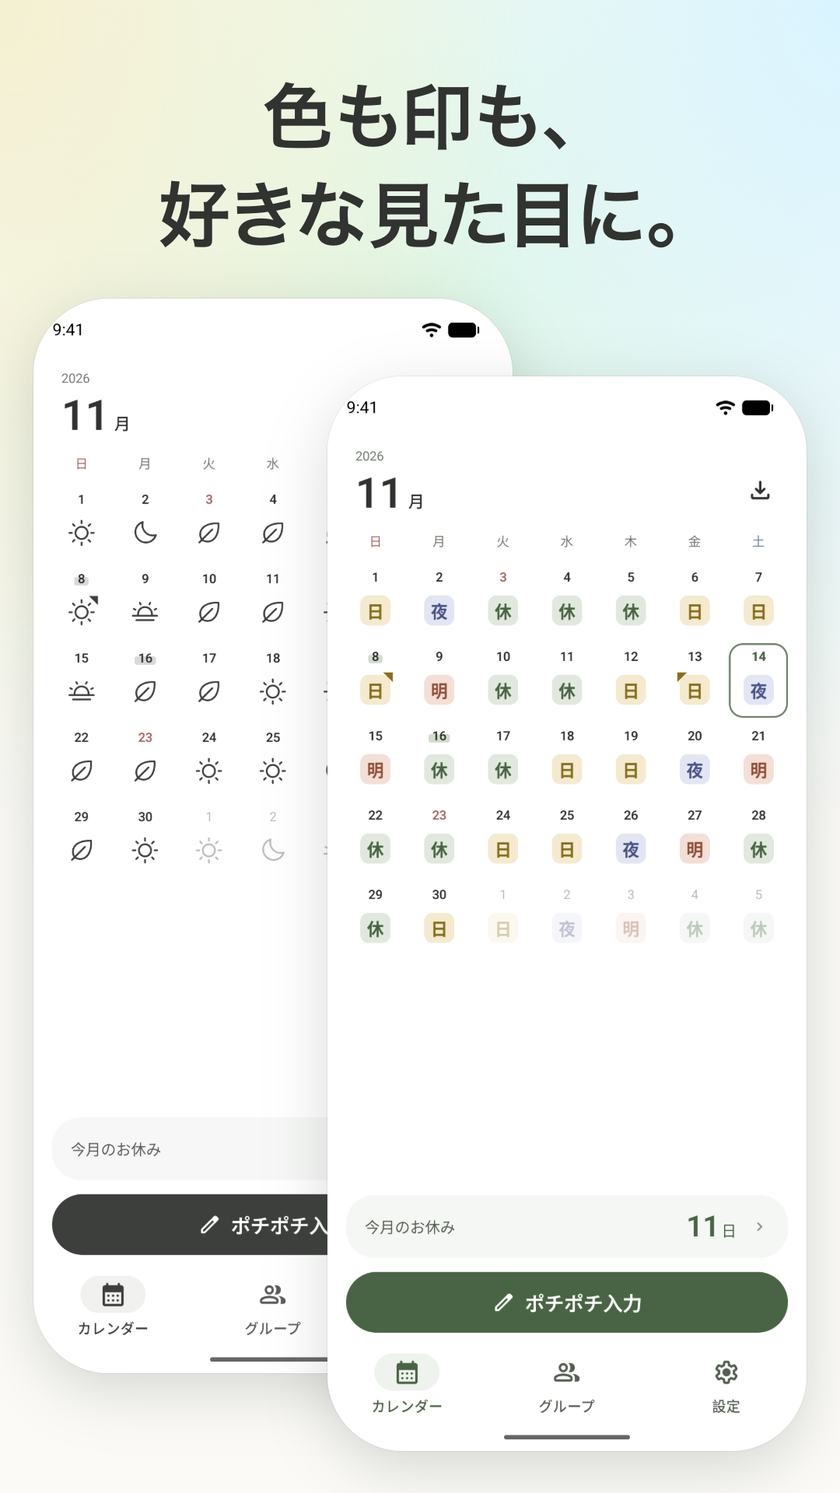
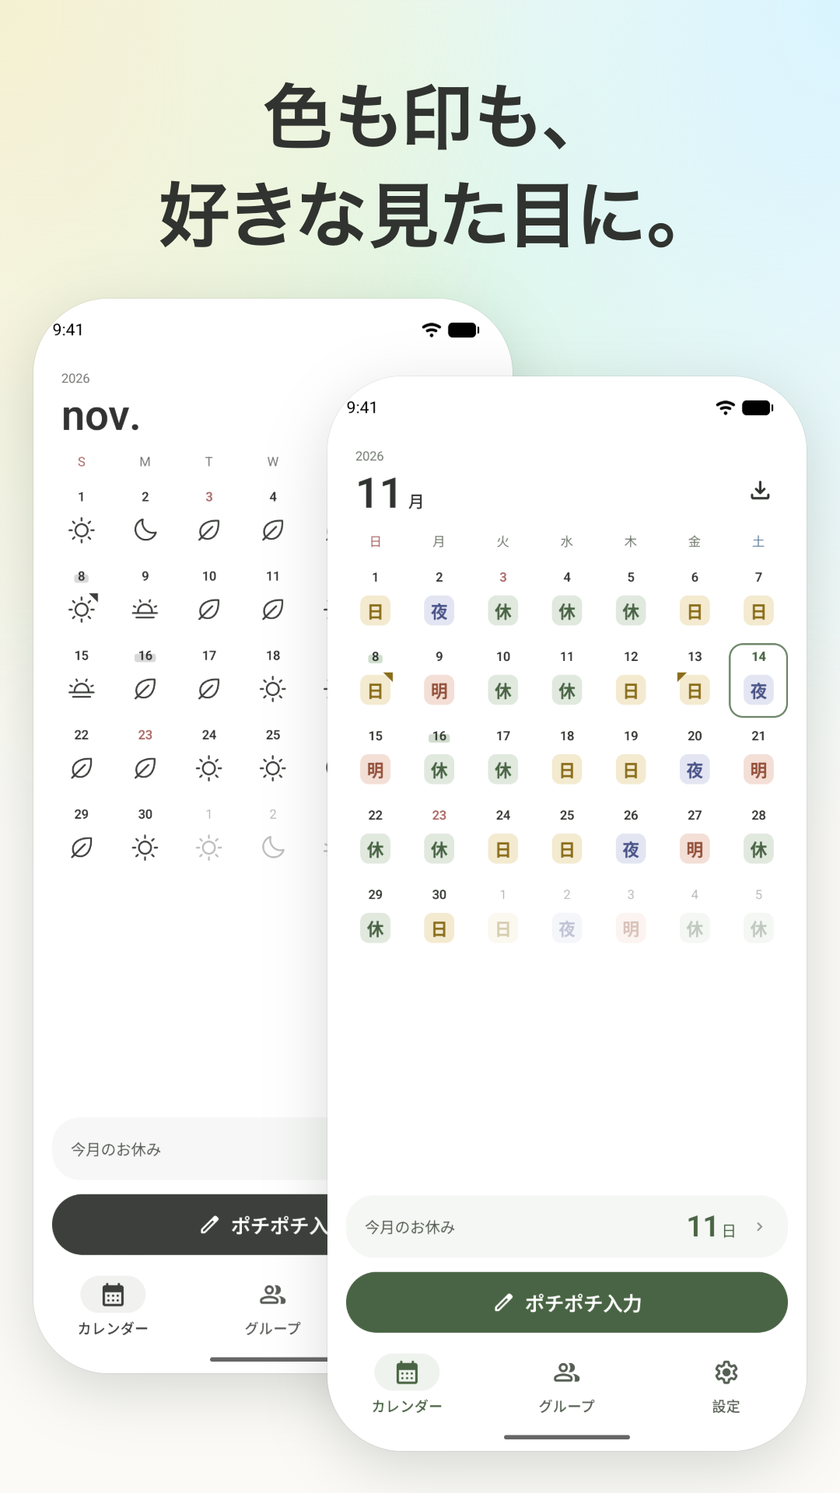
Store pictures: the 墨 calendar names its month and weekdays in English (#806)
The capture sets カレンダー's 月と曜日 with each look: English for the month's
own picture in 墨, 日本語 for the rest, the 墨 widgets among them. Only the
pictures that calendar is in are redrawn.

diff --git a/apps/android/app/src/androidTest/kotlin/app/pochical/StoreScreenshots.kt b/apps/android/app/src/androidTest/kotlin/app/pochical/StoreScreenshots.kt
@@ -68,7 +68,8 @@ import org.junit.runner.RunWith
  * in the order the app is walked rather than the stores': the sample month as a new user's,
  * リマインド's reminder of the evening before, who joins the groups tools/store-screenshots/seed.ts
  * made, the friends' as まい and the coworkers' as 佐藤; a page of a シフトの期間 from the 15th; the
- * month in 墨, in black and white ([Style.Sumi]), and with its shifts as letters ([Style.Letters]);
+ * month in 墨, in black and white ([Style.Sumi]) with 月と曜日 in English, and with its shifts as
+ * letters ([Style.Letters]);
  * ポチポチ入力 halfway through the month, the days it takes out entered again after; then, every
  * picture of the month taken, what changes its days: the widgets, each kind by itself at each
  * size it offers, in the app's look and in 墨, on each of today's shifts the wall shows, those that
@@ -186,7 +187,7 @@ class StoreScreenshots {
     pickPeriod("1日〜末日")
 
     // Every picture of the month before the widgets change its days.
-    pick(Style.Sumi)
+    pick(Style.Sumi, english = true)
     launch()
     device.find(calendar)
     photograph("05-calendar-sumi")
@@ -323,8 +324,11 @@ class StoreScreenshots {
     device.tap(By.text("参加する"), By.text("全体チャット"))
   }
 
-  /** Picks [style] in 設定, as the person would: スタイル's choices, and カレンダー's 色をつける日. */
-  private fun pick(style: Style) {
+  /**
+   * Picks [style] in 設定, as the person would: スタイル's choices, and カレンダー's 月と曜日, in [english]
+   * or not, and 色をつける日.
+   */
+  private fun pick(style: Style, english: Boolean = false) {
     device.tap(By.text("設定"), By.text("スタイル"))
     device.tap(By.text("スタイル"), By.text("テーマ"))
     for (choice in listOf(style.shape, style.theme, style.colors, style.off)) {
@@ -335,6 +339,8 @@ class StoreScreenshots {
     device.back(By.text("テーマ"))
     // カレンダー's row, by what it says of the week: the tab is カレンダー too.
     device.tap(By.textContains("曜はじまり"), By.text("週の始まり"))
+    val names = if (english) "英語" else "日本語"
+    if (!device.hasObject(By.desc(names).checked(true))) device.tap(By.desc(names), By.desc(names).checked(true))
     for (day in listOf("土曜", "日曜", "祝日")) {
       reveal(By.text(day))
       if (!device.hasObject(switch(day, style.coloredDays))) device.tap(switch(day, !style.coloredDays), switch(day, style.coloredDays))

diff --git a/apps/ios/Pochical/PochicalUITests/StoreScreenshotTests.swift b/apps/ios/Pochical/PochicalUITests/StoreScreenshotTests.swift
@@ -5,7 +5,8 @@ import XCTest
 /// month's リマインド, its reminder of the evening before; the sample month
 /// and 端末カレンダーに追加; 学生時代の友だち's 一覧, joined as まい, and
 /// 職場のみんな's 全体チャット, joined as 佐藤; a page of a シフトの期間 from
-/// the 15th; the month in 墨, in black and white (`Style.sumi`), and with
+/// the 15th; the month in 墨, in black and white (`Style.sumi`) with
+/// 月と曜日 in English, and with
 /// its shifts as letters (`Style.letters`); ポチポチ入力 halfway through the
 /// month, the days it takes out entered again after; then, every picture
 /// of the month taken, what changes its days: the widgets, each put on the
@@ -150,7 +151,7 @@ final class StoreScreenshotTests: XCTestCase {
   @MainActor
   func test05Sumi() throws {
     launch()
-    pick(.sumi)
+    pick(.sumi, english: true)
     snap("05-calendar-sumi", of: XCUIScreen.main, into: raw)
   }
 
@@ -589,8 +590,9 @@ final class StoreScreenshotTests: XCTestCase {
   }
 
   /// Picks `style` in 設定, as the person would: スタイル's choices and
-  /// カレンダー's 色をつける日, and comes back to the calendar in them.
-  @MainActor private func pick(_ style: Style) {
+  /// カレンダー's 月と曜日, in `english` or not, and 色をつける日, and comes
+  /// back to the calendar in them.
+  @MainActor private func pick(_ style: Style, english: Bool = false) {
     app.tabBars.buttons["設定"].tap()
     open(page: "スタイル")
     for choice in [style.shape, style.theme, style.colors, style.off] {
@@ -609,6 +611,11 @@ final class StoreScreenshotTests: XCTestCase {
     }
     app.navigationBars["スタイル"].buttons.firstMatch.tap()
     open(page: "カレンダー")
+    // 月と曜日, the page's first choice of two: 日本語, then 英語.
+    let names = app.segmentedControls.firstMatch.buttons.element(boundBy: english ? 1 : 0)
+    XCTAssertTrue(names.waitForExistence(timeout: 5), "カレンダー has 月と曜日")
+    if !names.isSelected { names.tap() }
+    XCTAssertTrue(names.isSelected, "月と曜日 is picked")
     let value = style.coloredDays ? "1" : "0"
     for day in ["土曜", "日曜", "祝日"] {
       let toggle = app.switches.matching(NSPredicate(format: "label == %@", day)).firstMatch

diff --git a/packages/prototype/src/lib/store-shots.ts b/packages/prototype/src/lib/store-shots.ts
@@ -158,7 +158,8 @@ export const WALL_SHOT = {
 // at most, the App Store ten. A raw file or folder named `-sumi` is in the
 // look the app's own settings give it in black and white: テーマ 墨,
 // シフトの色 ワントーン, シフトの見た目 線, 休みの見せ方 印だけ, and
-// 色をつける日 all off; one named `-letters` has the shifts as letters,
+// 色をつける日 all off, the month's own picture with 月と曜日 in English;
+// one named `-letters` has the shifts as letters,
 // シフトの見た目 文字, in the テーマ the app starts in. Everything else is
 // as the app starts. The wall is placed by hand and mixes the two, medium and large
 // widgets carrying it and small ones its accents, those set to someone

diff --git a/AGENTS.md b/AGENTS.md
@@ -14,7 +14,7 @@ Pochical is a monorepo: native SwiftUI (`apps/ios`) and Jetpack Compose (`apps/a
   - ライセンス's list of libraries is generated by each app's build, never checked in (spec/calendar.md, ライセンス): on iOS by LicenseList's build plugin from the resolved Swift packages' checkouts (`PLL_SOURCE_PACKAGES_PATH` names them when `-clonedSourcePackagesDirPath` moves them, as CI's `ios` job does), on Android by AboutLibraries' Gradle plugin into each variant's `res/raw/aboutlibraries.json`, with what the app carries besides its dependencies in `apps/android/app/aboutlibraries/libraries`.
   - Icons: the marks' paths from Phosphor via `pnpm --dir design icon:marks`; the iOS app icons and the widgets' `PeekingPoodle` via `pnpm --dir packages/prototype icon:ios`, and Android's launcher icon (its `mipmap` layers and the background color) and the Play listing's 512-pixel icon (`apps/android/app/src/main/ic_launcher-playstore.png`) and the widgets' `widget_poodle` via `icon:android`, both painting with `scripts/app-icon.ts` as the site icon's `icon:site` does.
   - try's installable app (`apps/try/public/app`): the icons, iOS's launch images and the web app manifest via `pnpm --dir apps/try icon:app` (`scripts/app-assets.ts`), and the manifest's screenshots, the screens `src/lib/app-screenshots.ts` names, via `image:screens`, which photographs the app on a dev server of its own as apps/design's `image:share` photographs the share image, both through `@pochical/prototype`'s `scripts/photograph.ts`. A change to that list runs both.
-  - The stores' pictures (`store/screenshots/<store>`, Google Play's feature graphic, `store/feature-graphic.png`, and the App Store's product page header, `store/product-page-header.png`): the shots, their headlines and each store's size in `@pochical/prototype`'s `lib/store-shots.ts` → `ANDROID_SERIAL=emulator-<port> mise run store:screenshots`. It photographs the real apps' screens into `.build/store-screenshots/<store>`, under the same names on both platforms, each against a server it starts and `tools/store-screenshots/seed.ts` seeds with two groups made by one piece, the coworkers' and a group of friends, each person's photo one of the faces' drawings (`design/src/drawings`) (`store:shots:android`: `StoreScreenshots` on the running emulator `ANDROID_SERIAL` names, never a phone, the widgets drawn there by themselves from the app's own days; `store:shots:ios`: `StoreScreenshotTests` in a simulator of its own and no other, `pochical-store`, an iPhone 18 Pro Max, the run failing when a simulator of the name is another device, the widgets put on its Home Screen), then draws each on the site's sky under its headline (`store:images`: apps/design's `image:store`, which photographs `/_render/store-shot` as `image:share` does the share image, for each store whose screens are there). The seed runs beside the capture: it makes the groups, writes their invitations, and writes the coworkers' chat only once the person photographed has joined, so the chat says every joining above its lines, and more lines than a screen holds keep them out of the picture, among them two photographs sent at once (`tools/store-screenshots/photos`, whose README names where each is from; a JPEG put there under the same name is sent in its place); the capture reads the chat to its latest line, opens it again, and photographs it there. The status bar says 9:41 in every picture, whenever the run is, and the chat's lines the time they were written; Android's is SystemUI's demo, entered once the emulator is on its Wi-Fi, as one entered in the seconds after a boot shows a second Wi-Fi icon to its end. Every look is set through the app's own settings: a raw file or folder named `-sumi` is in black and white (テーマ 墨, シフトの色 ワントーン, シフトの見た目 線, 休みの見せ方 印だけ, 色をつける日 off), one named `-letters` has the shifts as letters (シフトの見た目 文字, in the テーマ the app starts in), the rest as the app starts. The wall of widgets is placed by hand (the shot's `tiles`: which widget, in which look, in which cell of `WALL`), from every kind at each size it has for a Home Screen, those that can be set to someone set to a person and to the group too, and those today's shift changes on each of the sample's (a day off, 日勤, 夜勤, 明け: the capture enters it for today in ポチポチ入力 and photographs them in both looks before it enters the next), in the app's look and in 墨: medium and large widgets carry it, small ones are its accents. 次の休み counting to a day off, 次の休み on a day off and いまのシフト are marked `whole` and stand together where the eye lands, whole in each store's picture and in what every picture drawn from the wall shows on every device; no picture is beside itself. Entering a shift takes a day's own hours off it (早出, 残業) and 夜勤 gives the day after its 明け, and nothing is put back: every picture of the month is taken before the widgets, ポチポチ入力's among them, whose days taken out are entered again by the tray's keys and the month checked to say what it did before; the widgets' shifts go in the order that leaves each the days it shows as the sample has them. いまのシフト draws its ring only while a shift is on, so after the widgets a run enters one of the sample's shifts that is on at that hour and photographs that widget again, in the app's look, once it says the shift is on (before 9:00 that shift is the day before's 夜勤, which the month's page has no day for on the 1st: the run is not started then, and says to run from 9:00). A widget is photographed once it says the days it is to show (iOS; Android draws it from what the app holds then), and a run fails when a widget asked for is not there, when the seed's last checks fail, when the port already has a server, or when the emulator's settings are not all put back. The friends' group is joined as まい with ひよこ picked for a face, in place of the drawing a new person is given at random, and the coworkers' as 佐藤, there alone. A shot of one screen may lift the part its headline is about (its `callout`): the capture measures that part by its element, and every piece of the screen that says something, into `<raw>.json` (on Android as Compose lays them out, the accessibility tree giving a button smaller than a finger the larger place it takes touches in), and the picture draws the part again, larger (as large as keeps a row as wide as the screen inside the picture and the card as far over the phone's foot as the phone is over the picture's, 1.35 times at most), on a card over the phone that starts where the part does and grows down from there, what leads to the part left in sight over it; a piece the card would lie over a part of, on any side, it takes in whole, so nothing shows cut beside it, and the part is drawn in the card's middle, whole lines of the screen with their own room. The friends' table lifts the days everyone is off, the chat its poll's line with the line that asks for it, 端末カレンダーに追加 its 自動で反映. The details' shot and the cares' are three tiles each, within where a phone is under the headline, the room they leave shared evenly between them up to the most a gap may be and the rest left over and under them alike, a tile a card of the picture's with room inside it, on the ground of what it holds: a part of a screen its platform's UI test cuts at whole rows, from the top of one of the screen's own pieces to the foot of another, or pieces the page draws from the app's own marks, larger than a screen has them, with words and lines of the picture's that say what happens (the shot's `pieces`). Each tile holds only what makes its point. A part's file is named for what it is (`tile-<what>.png`), not for the shot it is in. The details', how a roster itself is: two weeks of 繰り返しを直す on a fixed cycle, a run's last step but one as it changes the job, to the ready-made 当番・非番・休み from next month's 1st, 当番 and 休み then named 当務 and 週休; the first week of a page of a シフトの期間 from the 15th under its heading, set in 設定 and put back; and a day of 早出 and one of 残業 with their marks' corners named, drawn. The cares', what the app does for the person: 夜勤's key pressed and the two days it fills, the second the app's doing, drawn; リマインド's reminder of the evening before, the next notification as its page draws it, before anything is changed; and グループの設定's rows of a group with an end, 忘年会, made in グループを作る with the day 終了日をつける offers, a run's very last step as it leaves a group. The same run draws the cards the site's top page ends on, the list `CARD_PICTURES`: each a picture of raw captures laid where the list says (the two looks of the month in their frames, 自動で反映 with its note and button, two weeks of 繰り返し, the evening before's reminder), into `packages/prototype/src/assets`. The wall is drawn in other pictures too, the list `WALL_PICTURES`: each its name, size, file, the store whose widgets it shows, where the wall lies in it (`lie`, as in a store's picture without), the line it carries (`line`, the wall clearing to the sky around it, none without) and the part of it every device shows (`safe`, which holds the line and the widgets marked `whole`, anywhere without). The App Store's product page header is the first: the wall across 3840×1646, the site's line beside the three widgets, both inside the art safe area measured from Apple's template. Google Play's feature graphic is the second, of Android's widgets: the wall across 1024×500 at twice the header's size for its width, so a widget's shapes read as narrow as a phone shows it, the line and the three widgets clear of 8 hundredths of each side, which Play cuts or covers in places. A change to that page or to a headline runs `store:images` alone, the screens still in `.build`; a change to an app's screens runs its `store:shots:*` and `store:images`.
+  - The stores' pictures (`store/screenshots/<store>`, Google Play's feature graphic, `store/feature-graphic.png`, and the App Store's product page header, `store/product-page-header.png`): the shots, their headlines and each store's size in `@pochical/prototype`'s `lib/store-shots.ts` → `ANDROID_SERIAL=emulator-<port> mise run store:screenshots`. It photographs the real apps' screens into `.build/store-screenshots/<store>`, under the same names on both platforms, each against a server it starts and `tools/store-screenshots/seed.ts` seeds with two groups made by one piece, the coworkers' and a group of friends, each person's photo one of the faces' drawings (`design/src/drawings`) (`store:shots:android`: `StoreScreenshots` on the running emulator `ANDROID_SERIAL` names, never a phone, the widgets drawn there by themselves from the app's own days; `store:shots:ios`: `StoreScreenshotTests` in a simulator of its own and no other, `pochical-store`, an iPhone 18 Pro Max, the run failing when a simulator of the name is another device, the widgets put on its Home Screen), then draws each on the site's sky under its headline (`store:images`: apps/design's `image:store`, which photographs `/_render/store-shot` as `image:share` does the share image, for each store whose screens are there). The seed runs beside the capture: it makes the groups, writes their invitations, and writes the coworkers' chat only once the person photographed has joined, so the chat says every joining above its lines, and more lines than a screen holds keep them out of the picture, among them two photographs sent at once (`tools/store-screenshots/photos`, whose README names where each is from; a JPEG put there under the same name is sent in its place); the capture reads the chat to its latest line, opens it again, and photographs it there. The status bar says 9:41 in every picture, whenever the run is, and the chat's lines the time they were written; Android's is SystemUI's demo, entered once the emulator is on its Wi-Fi, as one entered in the seconds after a boot shows a second Wi-Fi icon to its end. Every look is set through the app's own settings: a raw file or folder named `-sumi` is in black and white (テーマ 墨, シフトの色 ワントーン, シフトの見た目 線, 休みの見せ方 印だけ, 色をつける日 off; the month's own picture with 月と曜日 英語, the widgets 日本語), one named `-letters` has the shifts as letters (シフトの見た目 文字, in the テーマ the app starts in), the rest as the app starts. The wall of widgets is placed by hand (the shot's `tiles`: which widget, in which look, in which cell of `WALL`), from every kind at each size it has for a Home Screen, those that can be set to someone set to a person and to the group too, and those today's shift changes on each of the sample's (a day off, 日勤, 夜勤, 明け: the capture enters it for today in ポチポチ入力 and photographs them in both looks before it enters the next), in the app's look and in 墨: medium and large widgets carry it, small ones are its accents. 次の休み counting to a day off, 次の休み on a day off and いまのシフト are marked `whole` and stand together where the eye lands, whole in each store's picture and in what every picture drawn from the wall shows on every device; no picture is beside itself. Entering a shift takes a day's own hours off it (早出, 残業) and 夜勤 gives the day after its 明け, and nothing is put back: every picture of the month is taken before the widgets, ポチポチ入力's among them, whose days taken out are entered again by the tray's keys and the month checked to say what it did before; the widgets' shifts go in the order that leaves each the days it shows as the sample has them. いまのシフト draws its ring only while a shift is on, so after the widgets a run enters one of the sample's shifts that is on at that hour and photographs that widget again, in the app's look, once it says the shift is on (before 9:00 that shift is the day before's 夜勤, which the month's page has no day for on the 1st: the run is not started then, and says to run from 9:00). A widget is photographed once it says the days it is to show (iOS; Android draws it from what the app holds then), and a run fails when a widget asked for is not there, when the seed's last checks fail, when the port already has a server, or when the emulator's settings are not all put back. The friends' group is joined as まい with ひよこ picked for a face, in place of the drawing a new person is given at random, and the coworkers' as 佐藤, there alone. A shot of one screen may lift the part its headline is about (its `callout`): the capture measures that part by its element, and every piece of the screen that says something, into `<raw>.json` (on Android as Compose lays them out, the accessibility tree giving a button smaller than a finger the larger place it takes touches in), and the picture draws the part again, larger (as large as keeps a row as wide as the screen inside the picture and the card as far over the phone's foot as the phone is over the picture's, 1.35 times at most), on a card over the phone that starts where the part does and grows down from there, what leads to the part left in sight over it; a piece the card would lie over a part of, on any side, it takes in whole, so nothing shows cut beside it, and the part is drawn in the card's middle, whole lines of the screen with their own room. The friends' table lifts the days everyone is off, the chat its poll's line with the line that asks for it, 端末カレンダーに追加 its 自動で反映. The details' shot and the cares' are three tiles each, within where a phone is under the headline, the room they leave shared evenly between them up to the most a gap may be and the rest left over and under them alike, a tile a card of the picture's with room inside it, on the ground of what it holds: a part of a screen its platform's UI test cuts at whole rows, from the top of one of the screen's own pieces to the foot of another, or pieces the page draws from the app's own marks, larger than a screen has them, with words and lines of the picture's that say what happens (the shot's `pieces`). Each tile holds only what makes its point. A part's file is named for what it is (`tile-<what>.png`), not for the shot it is in. The details', how a roster itself is: two weeks of 繰り返しを直す on a fixed cycle, a run's last step but one as it changes the job, to the ready-made 当番・非番・休み from next month's 1st, 当番 and 休み then named 当務 and 週休; the first week of a page of a シフトの期間 from the 15th under its heading, set in 設定 and put back; and a day of 早出 and one of 残業 with their marks' corners named, drawn. The cares', what the app does for the person: 夜勤's key pressed and the two days it fills, the second the app's doing, drawn; リマインド's reminder of the evening before, the next notification as its page draws it, before anything is changed; and グループの設定's rows of a group with an end, 忘年会, made in グループを作る with the day 終了日をつける offers, a run's very last step as it leaves a group. The same run draws the cards the site's top page ends on, the list `CARD_PICTURES`: each a picture of raw captures laid where the list says (the two looks of the month in their frames, 自動で反映 with its note and button, two weeks of 繰り返し, the evening before's reminder), into `packages/prototype/src/assets`. The wall is drawn in other pictures too, the list `WALL_PICTURES`: each its name, size, file, the store whose widgets it shows, where the wall lies in it (`lie`, as in a store's picture without), the line it carries (`line`, the wall clearing to the sky around it, none without) and the part of it every device shows (`safe`, which holds the line and the widgets marked `whole`, anywhere without). The App Store's product page header is the first: the wall across 3840×1646, the site's line beside the three widgets, both inside the art safe area measured from Apple's template. Google Play's feature graphic is the second, of Android's widgets: the wall across 1024×500 at twice the header's size for its width, so a widget's shapes read as narrow as a phone shows it, the line and the three widgets clear of 8 hundredths of each side, which Play cuts or covers in places. A change to that page or to a headline runs `store:images` alone, the screens still in `.build`; a change to an app's screens runs its `store:shots:*` and `store:images`.
   - Workers' types: each Worker's `wrangler.jsonc` and the wrangler in `pnpm-lock.yaml`, with the workerd it pins → `mise run gen:worker-types`, which runs every workspace's `cf-typegen` (into `worker-configuration.d.ts` in `apps/server`, `apps/admin` and `apps/web`). A wrangler bump regenerates them too; CI runs `mise run worker-types:check`. A Worker with a `cf-typegen` and no secrets still declares `"secrets": { "required": [] }`, so its types never come from a computer's `.dev.vars` or `.env`.
   - SQL schemas are Drizzle and their migrations are generated, never written: D1 `apps/server/src/db/schema.ts` (`mise run db:generate -- --name <what>`; better-auth's tables via `mise run auth:schema` first), the Group DO `group-do-schema.ts` (`mise run group-do:generate`), the User DO `user-do-schema.ts` (`mise run user-do:generate`). CI runs `mise run db:check`.
 - The stores' listings are in `store/` (`store/README.md`): the texts of the App Store and Google Play, and the answers to their forms (`declarations.md`), entered into App Store Connect and Play Console by hand. `apps/design`'s tests hold each text to its store's limit; an answer changes in the PR that changes what the app does.
